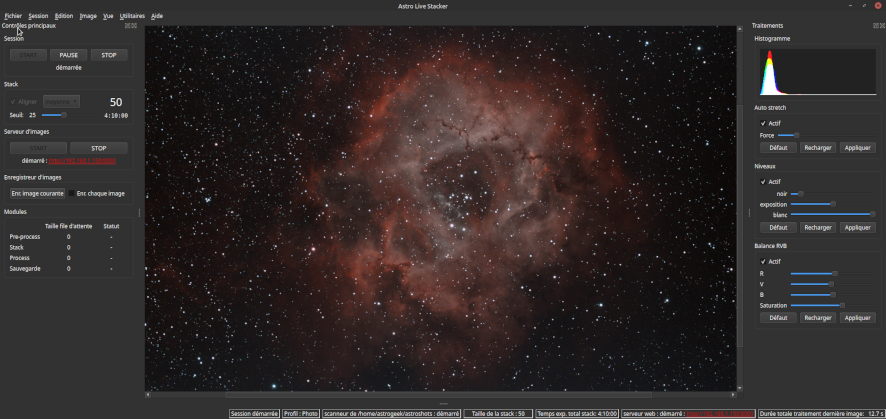
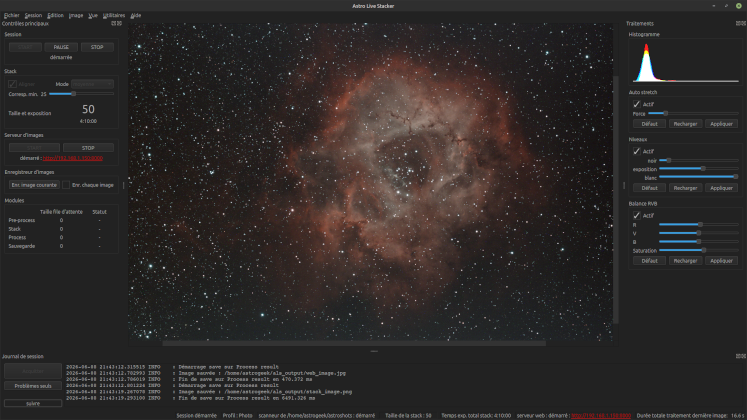
update main screenshots after latest UI changes

diff --git a/website/content/fr/_index.html b/website/content/fr/_index.html
@@ -23,8 +23,8 @@ type: "homepage"
     <p class="catchphrase als-text-shadow">Logiciel de livestacking universel</p>
     <section class="screenshot-section">
         {{< figure src="als-screenshot.png"
-            width="886px"
-            height="419px"
+            width="747px"
+            height="420px"
             alt="capture d'écran ALS"
             class="screenshot" >}}
     </section>

diff --git a/website/static/css/als-main.css b/website/static/css/als-main.css
@@ -147,12 +147,13 @@ section {
     box-shadow: 0 10px 10px 8px rgba(0, 0, 0, .5);
     border-radius: 4px;
     margin: 0 auto;
+    padding-top: 0;
 }
 
 .screenshot img {
     display: block;
     width: auto;
-    max-height: min(55vh, 419px);
+    max-height: min(55vh, 420px);
     max-width: min(90vw, 886px);
     height: auto;
     border-radius: 4px;

diff --git a/website/content/en/_index.html b/website/content/en/_index.html
@@ -25,8 +25,8 @@ type: "homepage"
 
     <section class="screenshot-section">
         {{< figure src="als-screenshot.png"
-            width="886px"
-            height="419px"
+            width="747px"
+            height="420px"
             alt="ALS screenshot"
             class="screenshot" >}}
     </section>
